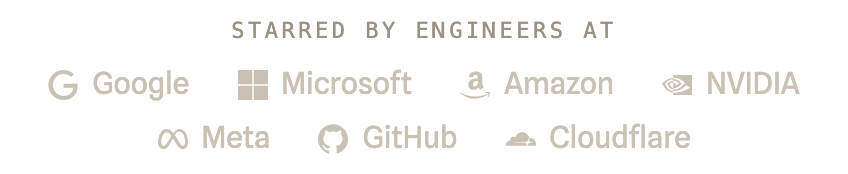
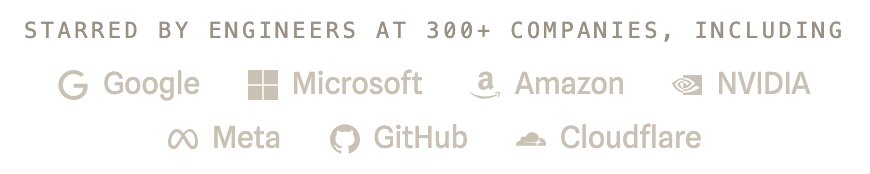
docs: say the README starred-by strip samples 300+ companies (#1309)
## Summary

The README starred-by strip label now reads **"Starred by engineers at
300+ companies, including"** above the seven logos, matching zeroshot.sh
(the-open-engine/zeroshot-landing-page#33).

- 300+ is a floor. On 2026-10-28, 538 of 2,051 stargazers listed a
company, naming about 420 distinct companies after removing students,
schools, placeholders and us, and merging aliases. It stays true as
stars grow.
- The longer label widens the strip to 435px, so the README `<img>`
width and alt text changed. Both PNGs were re-rendered with the
documented Playwright steps.

diff --git a/docs/brand/social/starred-by.html b/docs/brand/social/starred-by.html
@@ -2,7 +2,9 @@
 <!-- Source for the README "starred by engineers at" strip; render steps are in docs/brand/README.md.
      Companies come from the self-reported GitHub company field of zeroshot stargazers, each profile
      checked by hand, so the copy says "engineers at", never "used by". Marks are Simple Icons (CC0);
-     Microsoft and Amazon come from v11, before Simple Icons removed them. -->
+     Microsoft and Amazon come from v11, before Simple Icons removed them. "300+" is a floor: on
+     2026-10-28 the company field named about 420 distinct companies once students, schools and
+     placeholders were left out. -->
 <html lang="en">
 <head>
 <meta charset="utf-8">
@@ -21,7 +23,7 @@ svg { width: 15px; height: 15px; fill: currentColor; flex: none; }
 </head>
 <body>
 <div class="strip">
-<div class="label">Starred by engineers at</div>
+<div class="label">Starred by engineers at 300+ companies, including</div>
 <ul>
   <li><svg viewBox="0 0 24 24" aria-hidden="true"><path d="M12.48 10.92v3.28h7.84c-.24 1.84-.853 3.187-1.787 4.133-1.147 1.147-2.933 2.4-6.053 2.4-4.827 0-8.6-3.893-8.6-8.72s3.773-8.72 8.6-8.72c2.6 0 4.507 1.027 5.907 2.347l2.307-2.307C18.747 1.44 16.133 0 12.48 0 5.867 0 .307 5.387.307 12s5.56 12 12.173 12c3.573 0 6.267-1.173 8.373-3.36 2.16-2.16 2.84-5.213 2.84-7.667 0-.76-.053-1.467-.173-2.053H12.48z"/></svg>Google</li>
   <li><svg viewBox="0 0 24 24" aria-hidden="true"><path d="M0 0v11.408h11.408V0zm12.594 0v11.408H24V0zM0 12.594V24h11.408V12.594zm12.594 0V24H24V12.594z"/></svg>Microsoft</li>

diff --git a/README.md b/README.md
@@ -24,7 +24,7 @@
 
 &nbsp;
 
-<a href="https://github.com/the-open-engine/zeroshot/stargazers"><picture><source media="(prefers-color-scheme: dark)" srcset="docs/brand/social/starred-by-dark.png"><img alt="Starred by engineers at Google, Microsoft, Amazon, NVIDIA, Meta, GitHub and Cloudflare" src="docs/brand/social/starred-by-light.png" width="424"></picture></a>
+<a href="https://github.com/the-open-engine/zeroshot/stargazers"><picture><source media="(prefers-color-scheme: dark)" srcset="docs/brand/social/starred-by-dark.png"><img alt="Starred by engineers at 300+ companies, including Google, Microsoft, Amazon, NVIDIA, Meta, GitHub and Cloudflare" src="docs/brand/social/starred-by-light.png" width="435"></picture></a>
 
 </div>
 
